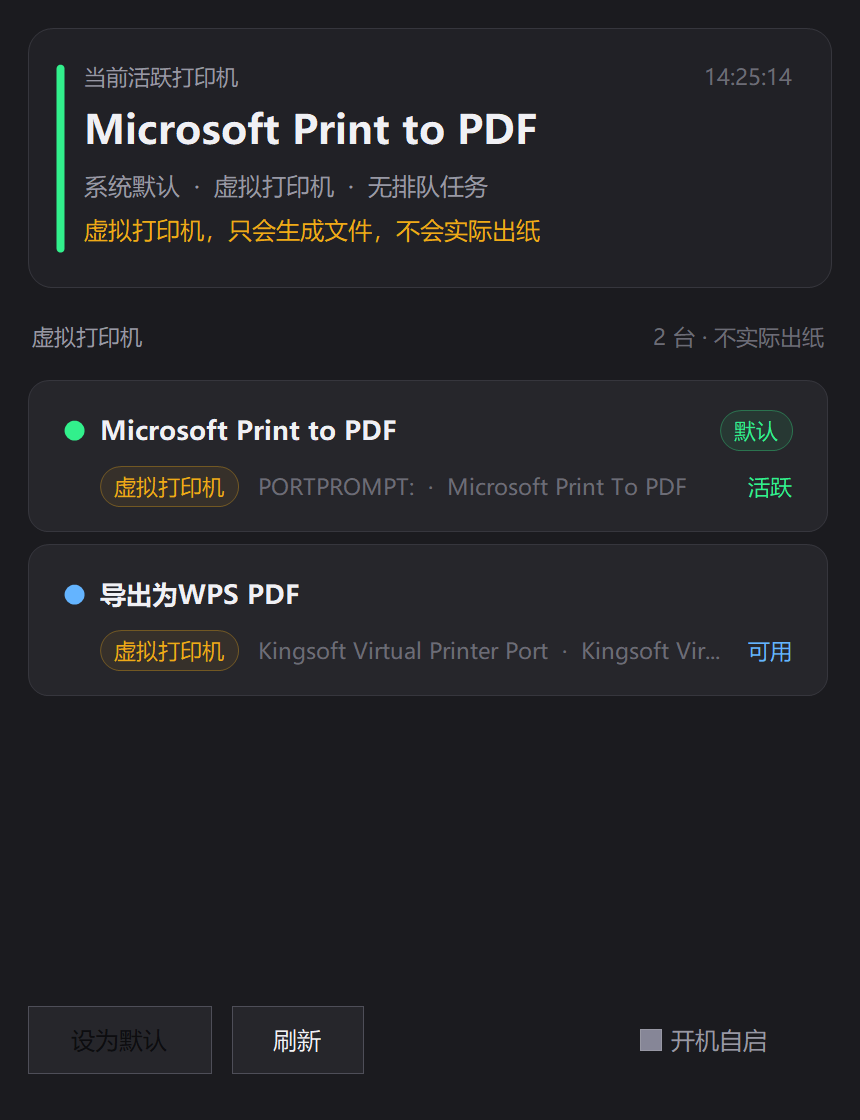
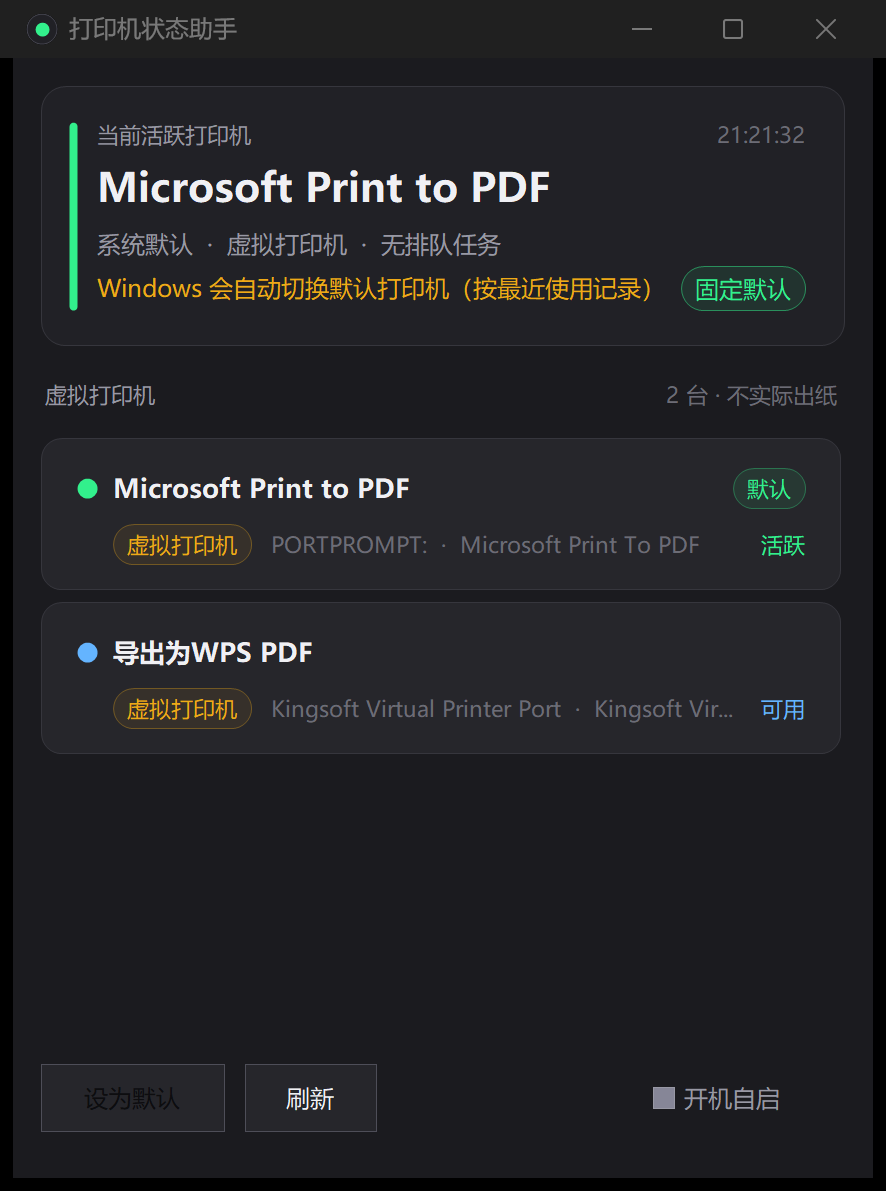
docs: README 同步为 spooler 实现，更新界面截图
「工作原理」整节重写为 spooler API 对照表，并补充两处实现取舍的实测依据：
为何不读 Attributes 的 DEFAULT 位、为何不把墨量低算作异常。

功能列表补充「默认打印机不再乱跳」与「完整信息悬浮提示」，托盘改为单击或双击；
项目结构表按实际职责更新；高分屏描述改为实测口径。

界面截图更新为含「固定默认」按钮的新版（886x1191 原生分辨率）。

diff --git a/README.md b/README.md
@@ -1,6 +1,6 @@
 # 打印机状态助手（PrinterMonitor）
 
-Windows 11 桌面小工具：一眼看清所有打印机的实时状态。托盘常驻、双击即开，不必再为了"打印机到底连没连上"翻系统设置。
+Windows 11 桌面小工具：一眼看清所有打印机的实时状态。托盘常驻、单击即开，不必再为了"打印机到底连没连上"翻系统设置。
 
 <img src="screenshot.png" alt="打印机状态助手界面" width="600">
 
@@ -8,14 +8,16 @@ Windows 11 桌面小工具：一眼看清所有打印机的实时状态。托盘
 
 - **实时状态一览**：列出系统中所有打印机，显示在线/离线、报错原因（缺纸、卡纸、缺墨、门未关等）以及排队/打印中的任务数
 - **默认打印机重点提示**：绿色 = 系统默认且在线（WPS、浏览器等实际会用的那台）；黄色 = 系统默认但已离线，一眼定位"为什么打不出纸"
+- **默认打印机不再乱跳**：检测 Windows 的「让 Windows 管理默认打印机」设置，若处于开启状态则在顶部提示，点「固定默认」即可关闭（托盘菜单里也有同一项）。这正是"WPS 里默认设备老是变"的根源——该设置会把默认打印机自动切换成你最近用过的那台
 - **一键切换默认打印机**：选中卡片后点「设为默认」，或右键卡片选择菜单项，切换后托盘提示同步更新
 - **虚拟打印机识别**：Microsoft Print to PDF / XPS / Fax 等单独归组，并提示"只会生成文件，不会实际出纸"
 - **智能排序**：实体设备优先 → 可用优先 → 默认优先 → 任务数 → 名称
-- **托盘常驻**：双击托盘图标开窗；托盘悬停显示当前默认打印机；菜单含显示主窗口 / 立即刷新 / 开机自启 / 退出
-- **自动刷新**：窗口可见时每 3 秒扫描一次，隐藏到托盘后降为每 10 秒
+- **完整信息悬浮提示**：名称过长被截断时，鼠标悬停可看到全名、端口、驱动与状态
+- **托盘常驻**：单击或双击托盘图标开窗；托盘悬停显示当前默认打印机；菜单含显示主窗口 / 立即刷新 / 固定默认打印机 / 开机自启 / 退出
+- **自动刷新**：窗口可见时每 3 秒扫描一次，隐藏到托盘后降为每 10 秒；内容无变化时跳过重绘
 - **快捷键**：`F5` 立即刷新，`Esc` 隐藏到托盘
-- **高分屏适配**：声明 DPI 感知，4K 屏下界面与文字保持锐利；深色主题
-- **零依赖免安装**：产物为单个 exe，无需安装 .NET SDK 或任何运行库
+- **高分屏适配**：声明系统 DPI 感知，初始化时按系统 DPI 换算全部尺寸与字号（本机 4K@200% 下实测按 2 倍布局，文字锐利）；深色主题
+- **零依赖免安装**：产物为单个 exe，无需安装 .NET SDK 或任何运行库，也不依赖 WMI 服务
 
 ## 运行环境
 
@@ -52,19 +54,35 @@ build.bat
 
 ## 工作原理
 
-- 通过 WMI 查询 `Win32_Printer` 获取打印机列表、默认标记、离线标记、错误状态、端口与驱动信息
-- 通过 `Win32_PrintJob` 统计每台打印机的排队 / 打印中任务数
-- 通过 `winspool.drv` 的 `SetDefaultPrinter` API 切换系统默认打印机
-- 全部为本地查询：程序不联网，也不上传任何数据
+全部通过 `winspool.drv` 的 spooler API 完成，**不使用 WMI**（因此不依赖 WMI 服务，在被管控的机器上也能正常工作）：
+
+| 用途 | 做法 |
+| --- | --- |
+| 打印机列表 | `EnumPrinters`（Level 2）取得名称、端口、驱动、服务器、属性位与状态位 |
+| 排队任务数 | `OpenPrinter` + `EnumJobs` 逐台统计 |
+| 离线标记 | 属性位 `PRINTER_ATTRIBUTE_WORK_OFFLINE`，或状态位 `PRINTER_STATUS_OFFLINE` / `NOT_AVAILABLE` / `SERVER_UNKNOWN` |
+| 报错原因 | 状态位 `PRINTER_STATUS_*`：缺纸、缺墨、卡纸、门未关、需人工干预、出纸槽已满、内存不足等 |
+| 默认打印机 | 优先读注册表 `HKCU\Software\Microsoft\Windows NT\CurrentVersion\Windows\Device`（实测 0.016 ms，而单次 `GetDefaultPrinter` 调用约 7 ms，且两者结果完全同步），取不到或指向已卸载设备时退回 `GetDefaultPrinter` |
+| 切换默认打印机 | `SetDefaultPrinter` |
+| 自动管理默认打印机 | 读取 / 写入 `HKCU\...\Windows\LegacyDefaultPrinterMode`（`0` = 让 Windows 自动切换，`1` = 固定为用户所选） |
+
+两点实现上的取舍：
+
+- **不读 `PRINTER_INFO_2.Attributes` 的 DEFAULT 位**。实测在 Windows 11 上该位经常不设置：本机 `Microsoft Print to PDF` 明明是默认打印机（`GetDefaultPrinter` 与注册表都确认），但它的 `Attributes` 是 `0x240`，第 3 位为 0。若按该位判断会导致默认打印机识别静默失效。
+- **状态判定以「能否出纸」为准**：缺纸、卡纸、开盖、需人工干预等会影响出纸的状态标红「异常」。墨量低（`PRINTER_STATUS_TONER_LOW`）时仍能正常出纸，因此不计入「异常」（当前版本也不单独展示该提示）。
+
+扫描性能（本机 2 台打印机实测）：spooler 约 **1.35 ms**，同样内容的 WMI 查询约 57.7 ms，快约 42 倍。
+
+程序不联网，不上传任何数据。遇到未处理异常时会写入 `%LOCALAPPDATA%\PrinterMonitor\log.txt` 便于排查，平时不产生文件。
 
 ## 项目结构
 
 | 文件 | 说明 |
 | --- | --- |
-| `Program.cs` | 程序入口：单实例互斥、DPI 缩放初始化、`/tray` 参数解析、开机自启注册表读写、运行期绘制应用图标 |
-| `MainForm.cs` | 主窗口：卡片列表布局、托盘图标与菜单、定时刷新、快捷键、设为默认打印机交互 |
-| `PrinterService.cs` | 打印机扫描与状态判定：WMI 查询、任务计数、虚拟打印机识别、状态归并、排序 |
-| `Controls.cs` | 自绘控件：顶部状态区、打印机卡片、分组标题、状态灯 |
+| `Program.cs` | 程序入口：单实例互斥、DPI 缩放初始化、`/tray` 参数解析、开机自启与「自动管理默认打印机」的注册表读写、异常日志、运行期绘制应用图标 |
+| `MainForm.cs` | 主窗口：卡片列表布局、托盘图标与菜单、定时刷新、变更检测、快捷键、设为默认 / 固定默认交互 |
+| `PrinterService.cs` | 打印机扫描与状态判定：spooler API 调用、任务计数、虚拟打印机识别、状态归并、排序 |
+| `Controls.cs` | 自绘控件：顶部状态区（含「固定默认」按钮）、打印机卡片、分组标题、状态灯 |
 | `Theme.cs` | 深色主题配色、状态灯颜色、字号与 DPI 缩放换算 |
 | `app.manifest` | 应用清单：DPI 感知、Windows 7–11 兼容声明、以普通用户权限运行 |
 | `build.bat` | 一键编译脚本，调用系统自带 `csc.exe` 生成单个 exe |
